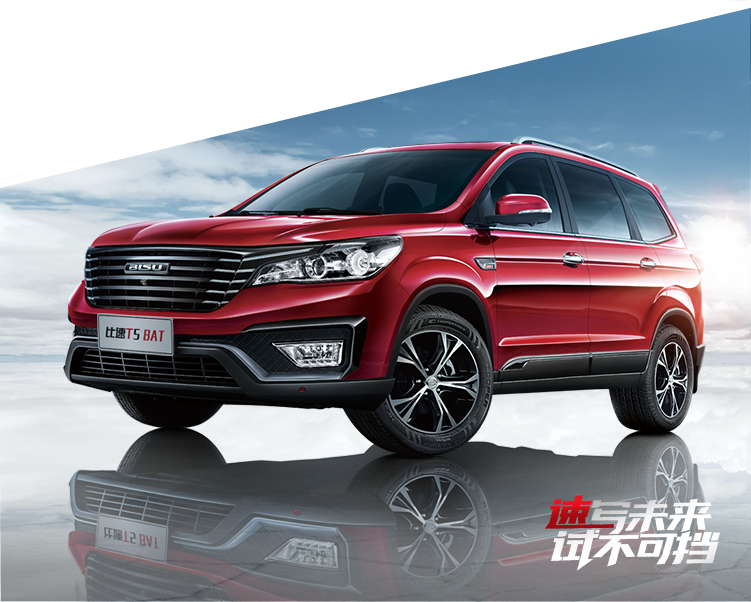
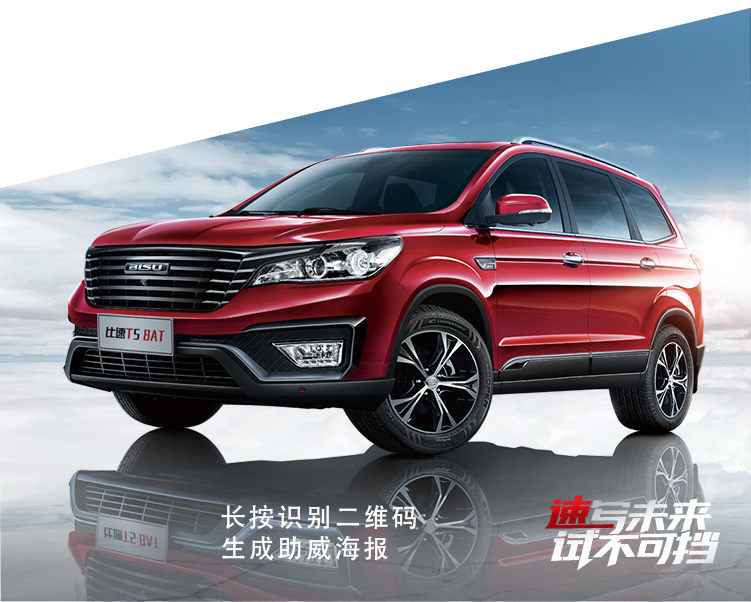
图片模糊解决

Changed region(s): [[0.2756, 0.8372, 0.5513, 0.9269]]

diff --git a/html/t5/css/index.css b/html/t5/css/index.css
@@ -1741,9 +1741,9 @@ html, body { position: relative; min-width: 320px; max-width: 750px; height: 100
 
 .page7 .cover { position: absolute; left: 0; top: 0; width: 100%; height: 100%; background: rgba(0, 0, 0, 0.7); }
 
-.page7 .cover .upload { position: relative; margin: 0 auto; margin-top: 3.2rem; width: 12.32rem; height: 8.4rem; overflow: hidden; }
+.page7 .cover .upload { position: relative; margin: 0 auto; margin-top: 3.2rem; width: 10rem; height: 7rem; overflow: hidden; display: -webkit-box; display: -webkit-flex; display: -ms-flexbox; display: flex; -webkit-box-align: center; -webkit-align-items: center; -ms-flex-align: center; align-items: center; -webkit-box-pack: center; -webkit-justify-content: center; -ms-flex-pack: center; justify-content: center; }
 
-.page7 .cover .upload .uploadBg { display: -webkit-box; display: -webkit-flex; display: -ms-flexbox; display: flex; -webkit-box-align: center; -webkit-align-items: center; -ms-flex-align: center; align-items: center; -webkit-box-pack: center; -webkit-justify-content: center; -ms-flex-pack: center; justify-content: center; width: 12.32rem; height: 8.4rem; }
+.page7 .cover .upload .uploadBg { display: -webkit-box; display: -webkit-flex; display: -ms-flexbox; display: flex; -webkit-box-align: center; -webkit-align-items: center; -ms-flex-align: center; align-items: center; -webkit-box-pack: center; -webkit-justify-content: center; -ms-flex-pack: center; justify-content: center; }
 
 .page7 .cover .upload .uploadShow { display: none; max-width: 100%; max-height: 100%; margin: 0 auto; }
 

diff --git a/styles/t5/page.scss b/styles/t5/page.scss
@@ -654,15 +654,16 @@ html, body {
       position: relative;
       margin: 0 auto;
       margin-top: 3.2rem;
-      width: 12.32rem;
-      height: 8.4rem;
+      width: 10rem;
+      height: 7rem;
       overflow: hidden;
+      display: flex;
+      align-items: center;
+      justify-content: center;
       .uploadBg {
         display: flex;
         align-items: center;
         justify-content: center;
-        width: 12.32rem;
-        height: 8.4rem;
       }
       .uploadShow{
         display: none;

diff --git a/html/t5/index.html b/html/t5/index.html
@@ -127,7 +127,7 @@
 				<button id="btnCapture" class="btn-circle">裁切</button>
 			</div>
 			<div class="footer">
-				<img src="./images/footer.png" alt="" id="footer">
+				<img src="./images/footer1.png" alt="" id="footer">
 			</div>
 			<div class="synthesis">
 				<img src="./images/btn5.png" alt="">
